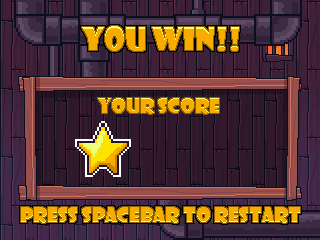
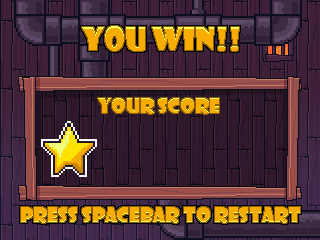
Arty
git-svn-id: svn://10.0.50.55/legends/trunk@547 67207eb2-9daa-044d-9a34-b8567af74898

Changed region(s): [[0.125, 0.4958, 0.4062, 0.7583]]

diff --git a/code/src/GameNook/src/Main.cpp b/code/src/GameNook/src/Main.cpp
@@ -80,9 +80,9 @@ const int Nook_Sm_Fall[] = { 1, /**/ 20 };
 const int Nook_Sm_Transform[] = { 9, /**/ 33,34,35,36,37,38,39,40,41 };
 // - ------------------------------------------------------------------------------------------ - //
 const int Star_Idle[] = { 10, /**/ 0,1,2,3,4,5,6,7,8,9 };
-const int Star_Sm_Idle[] = { 1, /**/ 10 };
-const int Key_Idle[] = { 1, /**/ 11 };
-const int Key_Sm_Idle[] = { 1, /**/ 12 };
+const int Star_Sm_Idle[] = { 4, /**/ 10,13,14,15 };
+const int Key_Idle[] = { 4, /**/ 16,17,18,19 };
+const int Key_Sm_Idle[] = { 4, /**/ 20,21,22,23 };
 // - ------------------------------------------------------------------------------------------ - //
 const int Door_Closed[] = { 1, /**/ 0 };
 const int Door_Open[] = { 4, /**/ 1,2,3,4 };
@@ -455,6 +455,12 @@ public:
 
 	int StarSpin;
 	int StarSpinPreDelay;
+	int SmStarSpin;
+	int SmStarSpinPreDelay;
+	int KeySpin;
+	int KeySpinPreDelay;
+	int SmKeySpin;
+	int SmKeySpinPreDelay;
 	
 public:
 	cPlayer( float _x, float _y ) :
@@ -485,6 +491,15 @@ public:
 		
 		StarSpin = 0;
 		StarSpinPreDelay = 0;
+		
+		SmStarSpin = 0;
+		SmStarSpinPreDelay = 0;
+		
+		KeySpin = 0;
+		KeySpinPreDelay = 0;
+		
+		SmKeySpin = 0;
+		SmKeySpinPreDelay = 0;
 		
 		SetBig( true, false );
 	}
@@ -692,7 +707,30 @@ public:
 			if ( StarSpin == Star_Idle[0] )
 				StarSpin = 0;
 		}
+
+		SmStarSpinPreDelay++;
+		if ( SmStarSpinPreDelay == 2 ) {
+			SmStarSpinPreDelay = 0;
+			SmStarSpin++;
+			if ( SmStarSpin == Star_Sm_Idle[0] )
+				SmStarSpin = 0;
+		}
 				
+		KeySpinPreDelay++;
+		if ( KeySpinPreDelay == 2 ) {
+			KeySpinPreDelay = 0;
+			KeySpin++;
+			if ( KeySpin == Key_Idle[0] )
+				KeySpin = 0;
+		}
+
+		SmKeySpinPreDelay++;
+		if ( SmKeySpinPreDelay == 2 ) {
+			SmKeySpinPreDelay = 0;
+			SmKeySpin++;
+			if ( SmKeySpin == Key_Sm_Idle[0] )
+				SmKeySpin = 0;
+		}
 		
 		// Physics //
 		{
@@ -1687,45 +1725,45 @@ void DrawObjectLayer( const int Layer ) {
 			}
 			else if ( Tile == TILE_BIGSTAR ) {
 				gelBindTileset( StarsId );
-				ArtIndex = Star_Idle[Player->StarSpin + 1];
+				ArtIndex = Star_Idle[ Player->StarSpin + 1 ];
 			}
 			else if ( Tile == TILE_BIGKEY ) {
 				gelBindTileset( StarsId );
-				ArtIndex = Key_Idle[1];
+				ArtIndex = Key_Idle[ Player->KeySpin + 1 ];
 			}
 			else if ( Tile == TILE_SMSTAR ) {
 				gelBindTileset( StarsId );
-				ArtIndex = Star_Sm_Idle[1];
+				ArtIndex = Star_Sm_Idle[ Player->SmStarSpin + 1 ];
 			}
 			else if ( Tile == TILE_SMKEY ) {
 				gelBindTileset( StarsId );
-				ArtIndex = Key_Sm_Idle[1];
+				ArtIndex = Key_Sm_Idle[ Player->SmKeySpin + 1 ];
 			}
-			else if ( Tile == TILE_DOOR ) {
-				gelBindTileset( DoorId );
-				ArtIndex = Door_Closed[1];
-				Baseline = true;
-			}
-			else if ( Tile == TILE_EXIT ) {
-				gelBindTileset( DoorId );
-				ArtIndex = Exit_Closed[1];
-				Baseline = true;
-			}
+//			else if ( Tile == TILE_DOOR ) {
+//				gelBindTileset( DoorId );
+//				ArtIndex = Door_Closed[1];
+//				Baseline = true;
+//			}
+//			else if ( Tile == TILE_EXIT ) {
+//				gelBindTileset( DoorId );
+//				ArtIndex = Exit_Closed[1];
+//				Baseline = true;
+//			}
 						
-			if ( Baseline ) {
-				gelDrawTileBaseline( 
-					ArtIndex, 
-					((_x - StartX) * 8) - OffsetX + 8, 
-					((_y - StartY) * 8) - OffsetY + 8
-					);
-			}
-			else {
+//			if ( Baseline ) {
+//				gelDrawTileBaseline( 
+//					ArtIndex, 
+//					((_x - StartX) * 8) - OffsetX + 8, 
+//					((_y - StartY) * 8) - OffsetY + 8
+//					);
+//			}
+//			else {
 				gelDrawTileCentered( 
 					ArtIndex, 
 					((_x - StartX) * 8) - OffsetX + 4, 
 					((_y - StartY) * 8) - OffsetY + 4
 					);
-			}
+//			}
 		}
 	}
 }
@@ -1776,9 +1814,9 @@ void EngineDraw() {
 	char Text[64];
 	
 	sprintf( Text, "%i", Player->TotalKeys );
-	gelSetColor( 0xC7, 0x85, 0x00, 255 );
+	gelSetColor( 0x6F, 0x82, 0xE4, 255 );
 	gelDrawTextLeft( Text, 32+0, 16+1, 23, "FourB" );
-	gelSetColor( 0xFF, 0xE3, 0x00, 255 );
+	gelSetColor( 0x82, 0xBA, 0xF4, 255 );
 	gelDrawTextLeft( Text, 32+0, 16+0, 23, "FourB" );
 	
 	sprintf( Text, "%i/%i", Player->TotalStars, TotalStarsInMap );
@@ -1817,9 +1855,9 @@ void GameDraw() {
 			char Text[64];
 			sprintf( Text, "%i/%i", Player->TotalStars, TotalStarsInMap );
 			gelSetColor( 0xC7, 0x85, 0x00, 255 );
-			gelDrawTextLeft( Text, 140, 150+2, 46, "FourB" );
+			gelDrawTextLeft( Text, 140-36, 150+2, 46, "FourB" );
 			gelSetColor( 0xFF, 0xE3, 0x00, 255 );
-			gelDrawTextLeft( Text, 140, 150, 46, "FourB" );
+			gelDrawTextLeft( Text, 140-36, 150, 46, "FourB" );
 	
 			break;
 		}
